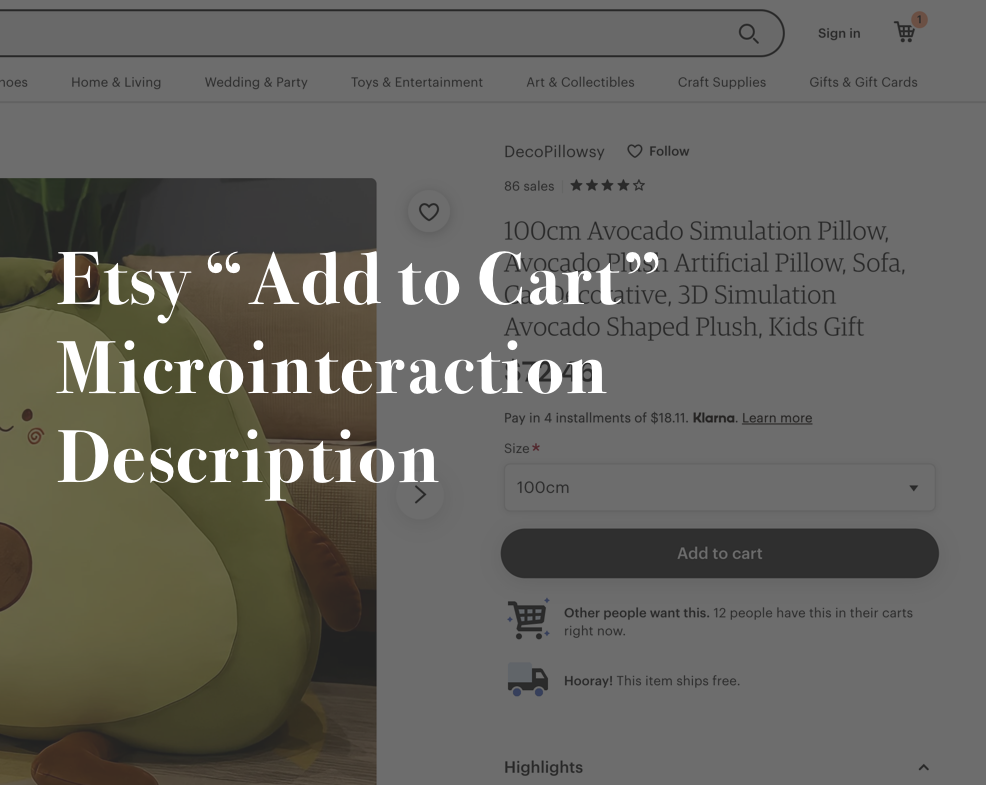
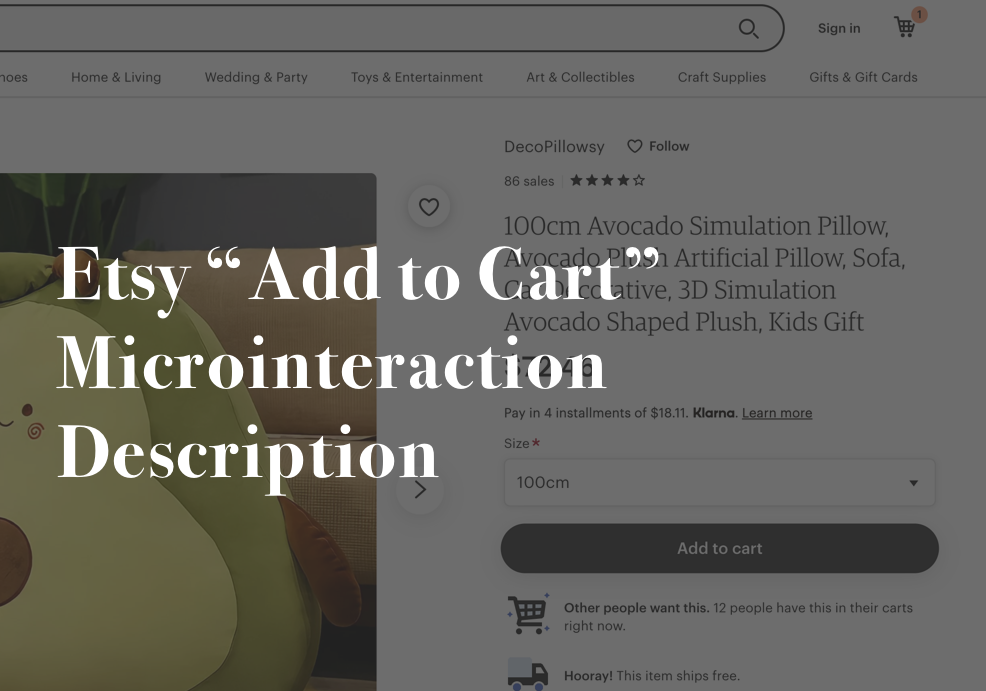
Updates to alpha description
Updates to css layout/design. Removing unnecessary files from git.

diff --git a/docs/alpha_description.html b/docs/alpha_description.html
@@ -7,12 +7,12 @@
         <link href="../stylesheets/alpha_description.css" rel="stylesheet" type="text/css">
     </head>
     <body>
-        <div class="hero_container">
-            <img src="../assets/alpha_description_hero.png" alt="Etsy Add-to-Cart Microinteraction Description" style="width:100%" id="hero">
+        <div id="hero">
+            <img src="../assets/alpha_description_hero.png" alt="Etsy Add-to-Cart Microinteraction Description" style="width:100%">
         </div>
-        <div class="header">
-            <h1>Alpha Description</h1>
-            <h2>Original Website URL: <a href="https://www.etsy.com/listing/1260386336/100cm-avocado-simulation-pillow-avocado?ga_order=most_relevant&ga_search_type=all&ga_view_type=gallery&ga_search_query=plushies&ref=sr_gallery-1-24&frs=1&organic_search_click=1&variation0=2769257463">Link to orginal microinteraction</a></h2>
+        <div id="header">
+            <h1 >Alpha Description</h1>
+            <h2>Original Website URL: <a href="https://www.etsy.com/listing/1260386336/100cm-avocado-simulation-pillow-avocado?ga_order=most_relevant&ga_search_type=all&ga_view_type=gallery&ga_search_query=plushies&ref=sr_gallery-1-24&frs=1&organic_search_click=1&variation0=2769257463">etsy.com</a></h2>
         </div>
         <div class="description_container">
             <div class="cell">
@@ -25,7 +25,7 @@
             </div>
             <div class="cell">
                 <h2>Feedback</h2>
-                 <ul>
+                 <ul style="padding-left: 0;">
                     <li>In hover state the button changes from #222222 to #2F2F2F and increases in size by 1.8%.</li>
                     <li>Once "add to cart" button is clicked, the meta deta is increased by amount selected.</li>
                     <li>Item is added to cart, modal appears to give addition information.</li>
@@ -34,7 +34,7 @@
              </div>
              <div class="cell">
                 <h2>Loops & Modes</h2>
-                <ul>
+                <ul style="padding-left: 0;">
                     <li>Number of items in cart is incremented by the quanity added to cart. Icon reflects increased total.</li>
                     <li>Number of people who have item in cart increments by one, is reflected on the interfaces avaliable to 3rd parties only.</li>
                     <li>Once "add to cart" is clicked, the modal appears from the right side of the screen. Customer is alerted that item has been added to the cart and is presented with the options to "continue shopping," "view cart and checkout," or view "related items you may like."</li>
@@ -45,19 +45,19 @@
         <div class="gallery_container">
            <figure>
                 <img src="../assets/fade in.png" alt="hearts fading in and moving in left" style="width: 100%" class="description_image">
-                <figcaption>Hearts fading in and moving in left</figcaption>
+                <figcaption>1: Hearts fading in and moving in left</figcaption>
             </figure>
             <figure>
                 <img src="../assets/rotate 1.png" alt="hearts roating position 1" style="width: 100%" class="description_image">
-                <figcaption>Hearts rotating while still moving left.</figcaption>
+                <figcaption>2: Hearts rotating while still moving left.</figcaption>
             </figure>
             <figure>
                 <img src="../assets/rotate 2.png" alt="hearts roating position 2" style="width: 100%" class="description_image">
-                <figcaption>Hearts rotating while still moving left.</figcaption>
+                <figcaption>3: Hearts rotating while still moving left.</figcaption>
             </figure>
             <figure>
                 <img src="../assets/fade out.png" alt="hearts fading out" style="width: 100%" class="description_image">
-                <figcaption>Hearts fading out in still postion while still rotating.</figcaption>
+                <figcaption>4: Hearts fading out in still postion while still rotating.</figcaption>
             </figure>
         </div>
     </body>

diff --git a/stylesheets/alpha_description.css b/stylesheets/alpha_description.css
@@ -11,43 +11,43 @@ html {
 
     /* Font Styles*/
     --header_1: normal 800 40px Garamond, serif;
-    --header_2: normal 900 24px Garamond, serif;
-    --paragraph: normal 400 16px Garamond, serif;
-    --link: normal 400 16px Garamond, serif;
+    --header_2: normal 900 28px Garamond, serif;
+    --paragraph: normal 200 20px Garamond, serif;
+    --link: normal 400 24px Garamond, serif;
 }
 
  /* Global Styles*/
 
 body {
+    display: flex;
+    flex-flow: column wrap;
     margin: 0;
     padding: 0 2.5% 40px;
     background-color: var(--dark_grey);
-    align-self: center;
-    align-content: center;
+    align-items: center;
     justify-content: center;
     overflow: scroll;
 }
 
+/* avoid inheritance */
+body > * {
+    padding: 0;
+    margin: 0; 
+
+}
+
+
 h1 {
     color: var(--white);
     font: var(--header_1);
-    margin: 20px 0;
+    text-transform: uppercase;
 } 
 
 h2 {
     color: var(--white);
     font: var(--header_2);
-    margin: 20px 0;
 }
 
-.header {
-    display: inline-flex;
-    flex-flow: column wrap;
-    justify-content: center;
-    align-self: center;
-    align-items: center;
-
-}
 
 html {
     background-color: var(--green);
@@ -75,9 +75,8 @@ p, ul {
 figcaption {
     color: var(--green);
     font: var(--paragraph);
-    font-size: 10px;
+    font-size: 12px;
     margin: 10px 0px;
-    align-self: center;
 }
 
 * {
@@ -86,20 +85,15 @@ figcaption {
 }
 
 .hero_container {
-    display: inline-flex;
-    align-self: center;
-    align-items: center;
+    display: flex;
     justify-content: center;
     display: block;
     width: 75%;
 }
 
-#hero {
-    align-self: center;
-    justify-self: center;
-}
-
 .description_container  {
+    margin: 0;
+    padding: 0; 
     display: inline-flex;
     flex-flow: row wrap;
     align-items: baseline;
